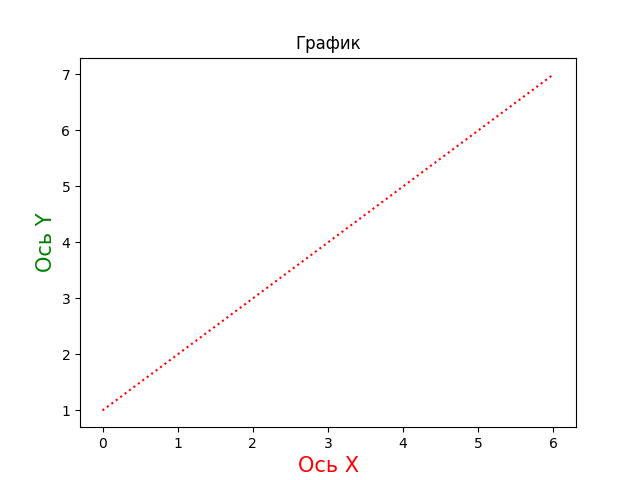
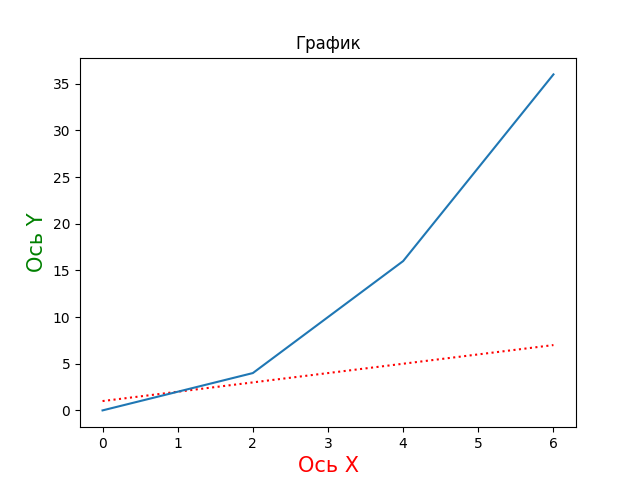
разбор дз

diff --git a/main.py b/main.py
@@ -1,11 +1,15 @@
 import matplotlib.pyplot as plt
 import numpy as np
-
-y = lambda x: x
+y = lambda x: x**2
 fig = plt.subplots()
-x = np.linspace(0, 5, 100)
-plt.plot(x, y(x))
+x = [0, 2, 4, 6]
+z = [1, 3, 5, 7]
+print(x, z)
+plt.plot(x, z, color='r', linestyle=':')
+plt.plot(x, list(map(y, x)))
+plt.title('График')
 ax = plt.gca()
 ax.set_xlabel("Ось X", fontsize=15, color='red')
 ax.set_ylabel("Ось Y", fontsize=15, color='green')
+plt.savefig('graph.png')
 plt.show()
